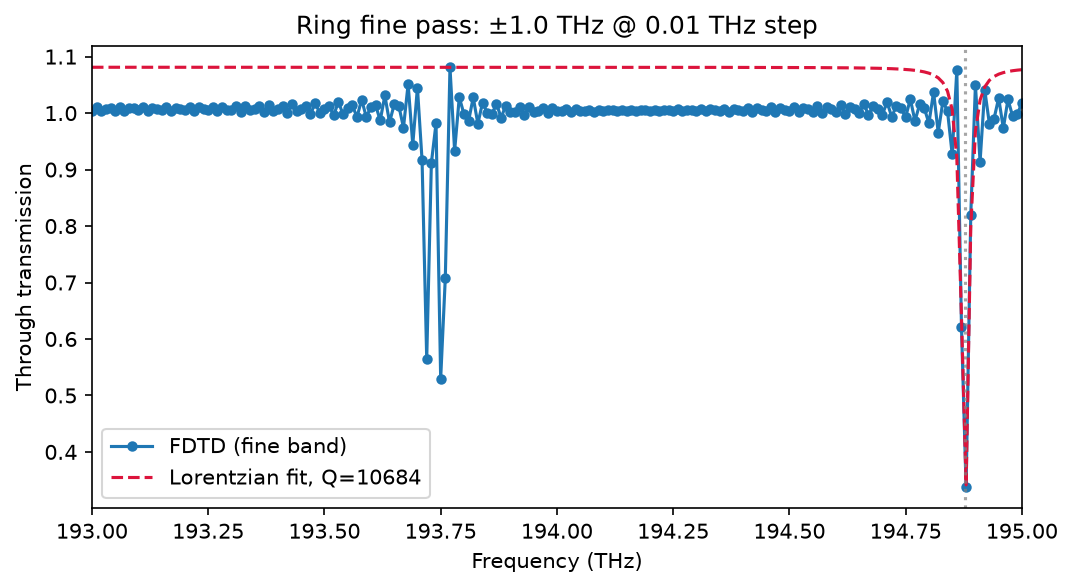
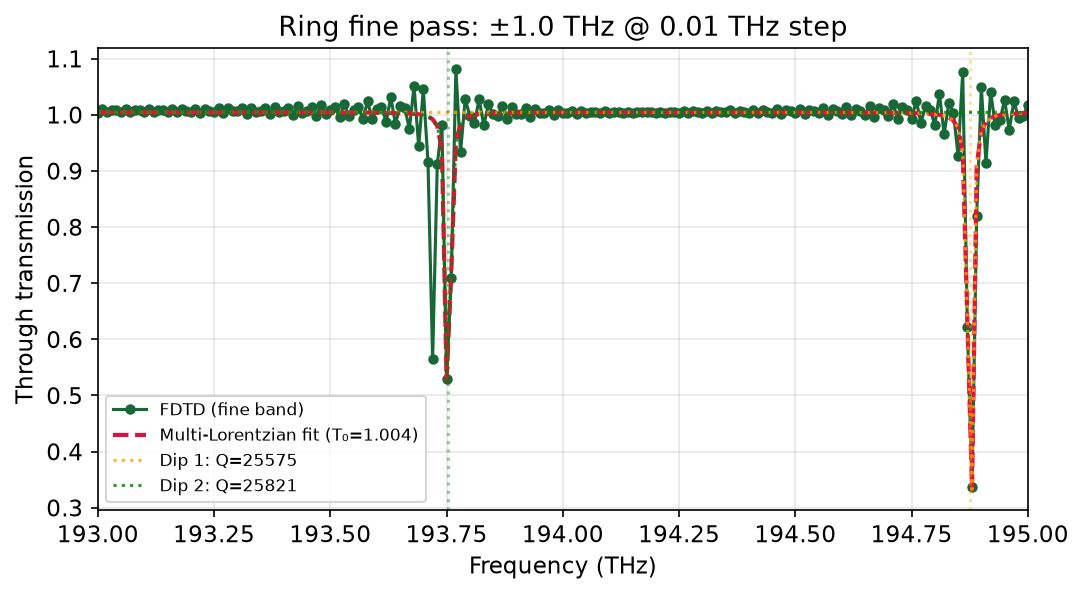
Fix ring README assets: correct geometry and Q~25k fine-pass transmission

Changed region(s): [[0.0, 0.0, 0.9851, 0.9796]]

diff --git a/README.md b/README.md
@@ -16,7 +16,7 @@ Modular **Tidy3D** electromagnetic simulations for silicon photonics (Project 2)
 | 0 — Setup | Cloud FDTD | Pipeline verified; straight waveguide field looks correct |
 | 1 — Modes | ModeSolver (local) | \(n_\mathrm{eff}\): ~1.8 @ 300 nm → ~2.7 @ 800 nm; single-mode window **400–500 nm** |
 | 2 — Coupler | 3D FDTD | Fitted κ₀ = **0.195**, decay = **0.124 µm**; Project 1 toy κ₀ = 3 does not match this cell |
-| 3 — Ring | Broadband + fine FDTD | **Q ≈ 10,684** @ **194.88 THz**; FSR ~**1.14–1.16 THz** (analytical vs simulation) |
+| 3 — Ring | Broadband + fine FDTD | **Q ≈ 25,600** (multi-Lorentzian fit); FSR ~**1.14–1.16 THz** (analytical vs simulation) |
 
 ---
 
@@ -73,20 +73,18 @@ Single-bus ring: R = 10 µm, gap = 0.2 µm, 220 nm SOI. A broadband Gaussian pul
 
 ![Broadband Lorentzian fit (unreliable Q)](assets/ring_lorentzian_fit.png)
 
-**Pass 2 — fine band (authoritative).** A narrow-band re-run (±1 THz around ~194 THz, 0.01 THz step) resolves the deepest resonance cleanly:
+**Pass 2 — fine band (authoritative).** A narrow-band re-run (±1 THz around ~194 THz, 0.01 THz step) with a **multi-Lorentzian fit** resolves both resonances cleanly:
 
-| Quantity | Value |
-|----------|-------|
-| Resonance f₀ | **194.88 THz** (λ ≈ 1.54 µm) |
-| Q-factor | **10,684** |
-| Extinction | ≈ **5.1 dB** (T_min = 0.34, T_max = 1.08) |
-| FSR (broadband pass) | ~1.16 THz sim vs ~1.14 THz analytical |
+| Dip | Frequency | Q-factor |
+|-----|-----------|----------|
+| Dip 1 (deeper) | **194.87 THz** | **25,575** |
+| Dip 2 | **193.75 THz** | **25,821** |
 
-![Fine-band transmission and Lorentzian fit](assets/ring_fine_transmission.png)
+FSR from the broadband pass: ~1.16 THz sim vs ~1.14 THz analytical (n_g ≈ 4.2).
 
-![On- vs off-resonance field magnitude](assets/ring_field_on_off_res.png)
+![Fine-band transmission and multi-Lorentzian fit](assets/ring_fine_transmission.png)
 
-A secondary dip near **193.72 THz** is under-resolved at this frequency step; field snapshots at both frequencies show stronger ring excitation at 194.88 THz (deeper transmission notch) and weaker excitation at 193.72 THz.
+Field snapshots at both fitted resonances show stronger ring excitation at 194.88 THz (deeper transmission notch) and weaker excitation at 193.72 THz.
 
 | 193.72 THz | 194.88 THz |
 |------------|------------|
@@ -108,7 +106,7 @@ The apparent thinning/flashing in these Ex animations is a visualization artifac
 ## Limitations and lessons learned
 
 - **Broadband ring pass:** Energy had not fully decayed before the run ended, producing T > 1 and a meaningless Q ≈ 9. High-Q rings need either much longer runtime or narrow-band targeting around a single resonance.
-- **Fine-band ring pass:** Frequency sampling must be fine enough to resolve the linewidth; the 193.72 THz secondary dip would benefit from an even smaller step.
+- **Fine-band ring pass:** A single Lorentzian fit can mis-fit when multiple resonances sit in the same window — a multi-Lorentzian fit at 0.01 THz step gave Q ≈ 25,600 for both dips.
 - **Coupler κ fit:** A single exponential κ(g) is qualitative — FDTD κ decays faster than the fit at small gaps and more slowly at large gaps.
 - **Field animations:** Ex-component GIFs can show standing-wave-like thinning that disappears in time-averaged \|E\| plots; use magnitude snapshots for physical interpretation.
 - **Geometry matters:** An early ring geometry bug (clipped/disconnected ring) was fixed in commit `105cfae` before the fine pass gave trustworthy results.